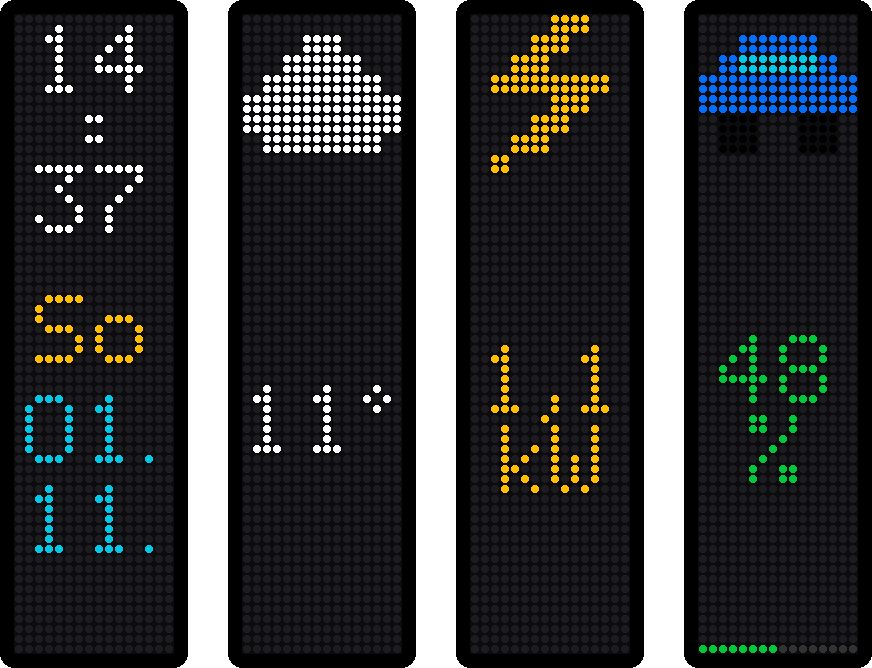
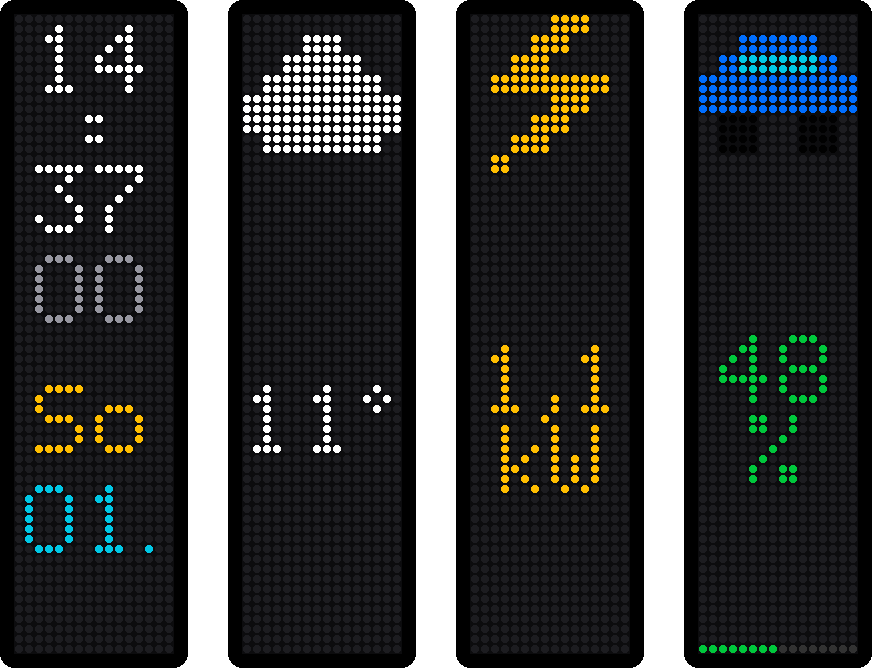
Docs: clock with seconds, upload and flow control, apps in the diagram; version 0.2.0

diff --git a/tools/docs_images.py b/tools/docs_images.py
@@ -93,7 +93,7 @@ def main() -> None:
 
     # portrait: drawn on 16x64, shown upright
     tall = [
-        render.render_clock(NOW, H, W),
+        render.render_clock(NOW, H, W, seconds=True),
         render.render_screen(Screen([Line("11°")], icon=ic("cloud")), H, W),
         render.render_screen(Screen([Line("1,1 kW", YELLOW)], icon=ic("power")), H, W),
         render.render_screen(Screen([Line("48%", GREEN)], icon=ic("car"), progress=48), H, W),

diff --git a/README.md b/README.md
@@ -28,7 +28,7 @@ starts with clock and date.
 
 | Kind | Shows | Settings |
 |---|---|---|
-| **Clock** | HH:MM with blinking colon, small running seconds, weekday bar | seconds, weekday bar |
+| **Clock** | big HH:MM with blinking colon, small running seconds, 2 px weekday bar (today highlighted) | seconds, weekday bar |
 | **Date** | weekday and date | |
 | **Weather** | condition icon and temperature | weather entity |
 | **Value** | any entity – temperature, battery, CO₂ … | label, unit, decimals, progress bar (min/max) |
@@ -91,7 +91,8 @@ The USB cable only powers the panel (tested: no USB device shows up), so control
 3. The panel shows up under **Settings → Devices & services → Discovered** → **Add**.
 4. **Add page** for every app you want; **Configure** (⚙) sets the default text colour.
 
-Updating from 0.1 (pages in the options): the pages are turned into apps automatically.
+Updating from 0.1 (pages in the options): the pages, including their on/off state, are turned into
+apps automatically.
 
 Manual alternative: copy `custom_components/pixel_clock` into `config/custom_components` and restart.
 
@@ -159,16 +160,23 @@ action goes to all panels.
 ```mermaid
 flowchart LR
   HA["Home Assistant<br/>states, calendars, automations"] --> C["pixel_clock<br/>page rotation + notifications"]
-  C --> R["Renderer (Pillow)<br/>5×7 pixel font, icons,<br/>rotation for portrait"]
+  A["Apps per panel<br/>(subentries)"] --> C
+  C --> R["Renderer (Pillow)<br/>5×7 pixel font, 48 icons,<br/>effects, portrait rotation"]
   R -->|PNG / GIF| B["Bluetooth<br/>host adapter or ESPHome proxy"]
   B --> P["LED panel 64×16"]
   R -->|preview| I["Image entity"]
 ```
 
-Home Assistant renders every screen itself and uploads it as PNG, or as GIF for scrolling text
-and the blinking colon. A still image is a few hundred bytes, a scrolling line 10–25 KB; uploads
-use writes without response with the panel's window acknowledgements (≈50 KB/s), so even long
-text is on the panel in well under a second. Unchanged screens are not sent again.
+Home Assistant renders every screen itself and uploads it as PNG, or as GIF for scrolling text,
+background effects and the clock. A still image is a few hundred bytes, an effect loop 3–17 KB, a
+long scrolling text up to ~40 KB. Uploads mostly use writes without response, with an acknowledged
+write every 8th packet as flow control and the panel's window acknowledgements as the check; a
+40 KB text is on the panel about 2.5 s after the action (Raspberry Pi adapter). Unchanged screens
+are not sent again.
+
+The clock with seconds is one GIF that counts to the end of the current minute; it is sent once
+per minute (or when the clock comes back after another page), because sending it again restarts
+the GIF. The panel keeps its own time as well: it is set on connect and every hour.
 
 Protocol: GATT service `0x00FA`, write `FA02`, notify `FA03`; checked against the iPixels app
 3.8.1 and the reverse engineering in [pypixelcolor](https://github.com/lucagoc/pypixelcolor)
